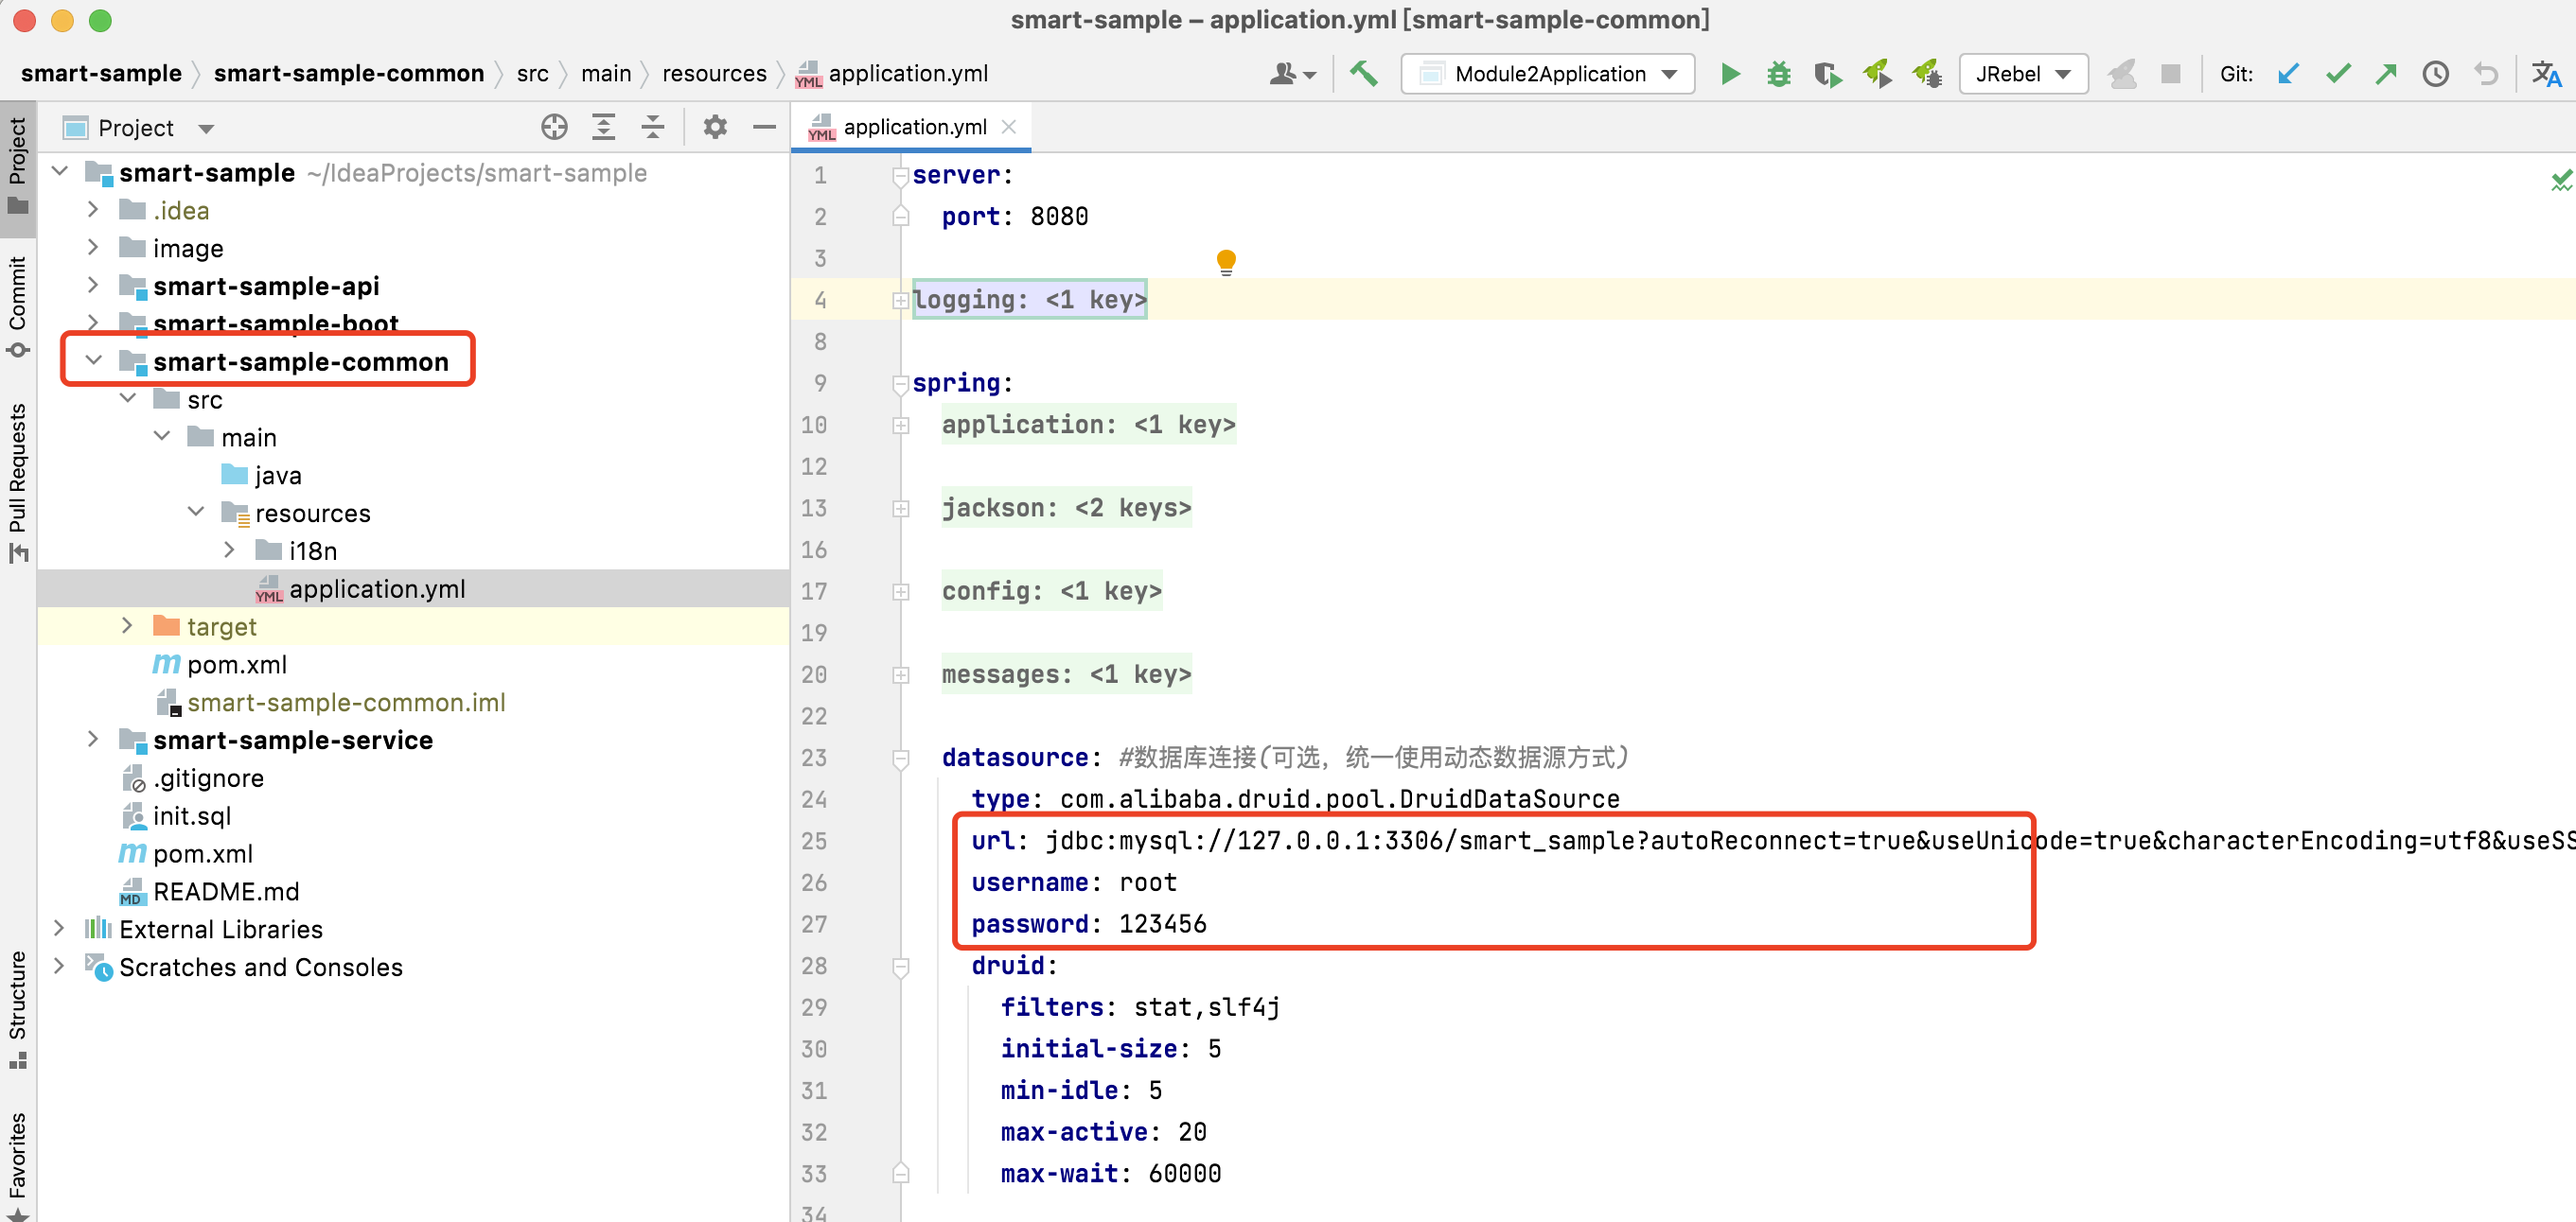
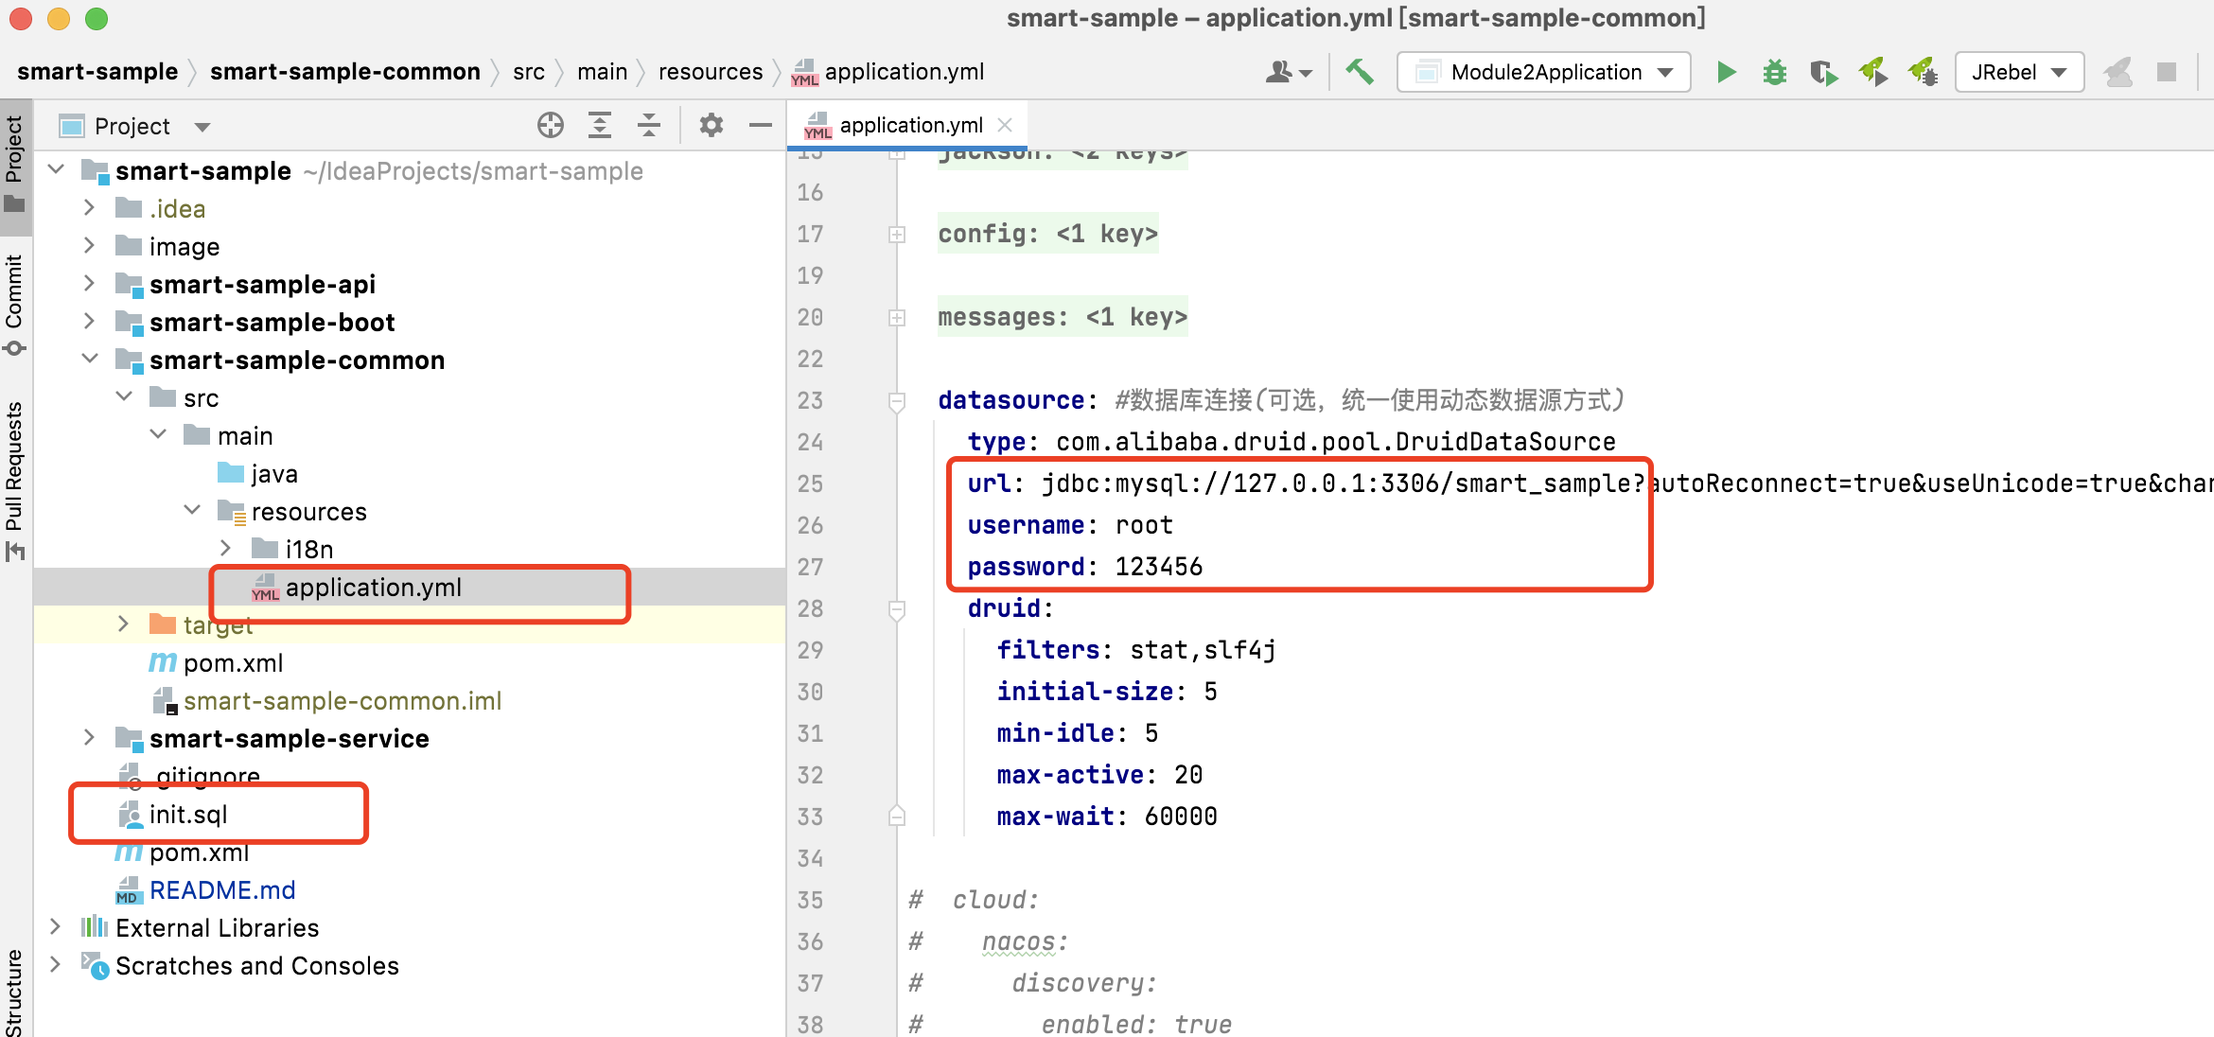
初始提交

diff --git a/README.md b/README.md
@@ -21,7 +21,7 @@ smart-sample                                应用名称
 ### 4.快速开始
 
 #### 4.1 Mysql库创建及初始化
-创建库名为smart_sample的数据库，执行初始化SQL文件，并修改数据库连接信息
+创建库名为smart_sample的数据库，在项目根目录下找到并执行初始化SQL文件init.sql，并修改数据库连接信息
 
 ![](./image/20.png)
 
